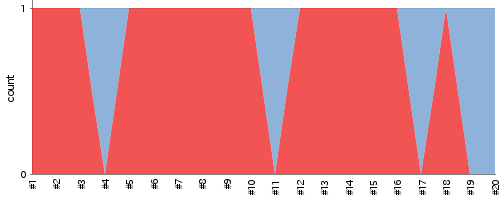
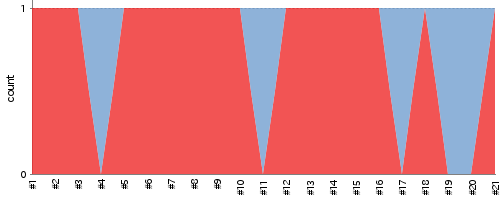
update report

diff --git a/index.md b/index.md
@@ -2,7 +2,7 @@
 layout: default
 ---
 # Jenkins CI report For HRG
-## Build and test report (2015/07/04 12:28:36)
+## Build and test report (2015/07/04 13:28:31)
 ### Build Status
 ___
 ![Build Status](http://jenkinshrg.github.io/images/badge.svg)
@@ -25,18 +25,19 @@ ___
 ___
 * Status
   
-![Jenkins Icon](http://jenkinshrg.github.io/images/48x48/blue.png)
-SUCCESS
+![Jenkins Icon](http://jenkinshrg.github.io/images/48x48/yellow.png)
+UNSTABLE
   
 * Stability
   
 ![Jenkins Icon](http://jenkinshrg.github.io/images/48x48/health-20to39.png)
-25%
+23%
   
 * Latest Results
   
 |Status|Time|Duration|Changes|Build|Test|Note|
 |---|---|---|---|---|---|---|
+|![Jenkins Icon](http://jenkinshrg.github.io/images/24x24/yellow.png)UNSTABLE|2015/07/04 13:00|28 min.||[BUILD](https://drive.google.com/file/d/0B54sHwaxmuM4cGROLUpvUl85R00/view?usp=drivesdk) |[CONSOLE](https://drive.google.com/file/d/0B54sHwaxmuM4NWZ1NVdxRjhMZkk/view?usp=drivesdk) [IMAGE](https://drive.google.com/file/d/0B54sHwaxmuM4YmlVR2pPYi1aNEE/edit?usp=drivesdk) [VIDEO](https://drive.google.com/file/d/0B54sHwaxmuM4bHJ6VmNJdFhWajg/edit?usp=drivesdk) |STOP NORMAL|
 |![Jenkins Icon](http://jenkinshrg.github.io/images/24x24/blue.png)SUCCESS|2015/07/04 12:00|28 min.||[BUILD](https://drive.google.com/file/d/0B54sHwaxmuM4MTNrNWh1c0dqV0U/view?usp=drivesdk) |[CONSOLE](https://drive.google.com/file/d/0B54sHwaxmuM4WS1FUGZPYVNaTzA/view?usp=drivesdk) [IMAGE](https://drive.google.com/file/d/0B54sHwaxmuM4eVRvNVQybmc3Zlk/edit?usp=drivesdk) [VIDEO](https://drive.google.com/file/d/0B54sHwaxmuM4XzM0aHBFM3JEcGs/edit?usp=drivesdk) | |
 |![Jenkins Icon](http://jenkinshrg.github.io/images/24x24/blue.png)SUCCESS|2015/07/04 11:00|28 min.||[BUILD](https://drive.google.com/file/d/0B54sHwaxmuM4V0VPRE9uWjRNZkE/view?usp=drivesdk) |[CONSOLE](https://drive.google.com/file/d/0B54sHwaxmuM4NUNySlRoSXNsOGs/view?usp=drivesdk) [IMAGE](https://drive.google.com/file/d/0B54sHwaxmuM4YXNjYW9NaWxxOVk/edit?usp=drivesdk) [VIDEO](https://drive.google.com/file/d/0B54sHwaxmuM4eUdiS2pSQ3VVN1U/edit?usp=drivesdk) | |
 |![Jenkins Icon](http://jenkinshrg.github.io/images/24x24/yellow.png)UNSTABLE|2015/07/04 10:00|28 min.||[BUILD](https://drive.google.com/file/d/0B54sHwaxmuM4M1o1aG1hcWpNYzg/view?usp=drivesdk) |[CONSOLE](https://drive.google.com/file/d/0B54sHwaxmuM4dnk2U1ZWaFhBREE/view?usp=drivesdk) [IMAGE](https://drive.google.com/file/d/0B54sHwaxmuM4MHVMbWxGQUwwSmc/edit?usp=drivesdk) [VIDEO](https://drive.google.com/file/d/0B54sHwaxmuM4RmRUS1c2MUZ6akE/edit?usp=drivesdk) |STOP NORMAL|
